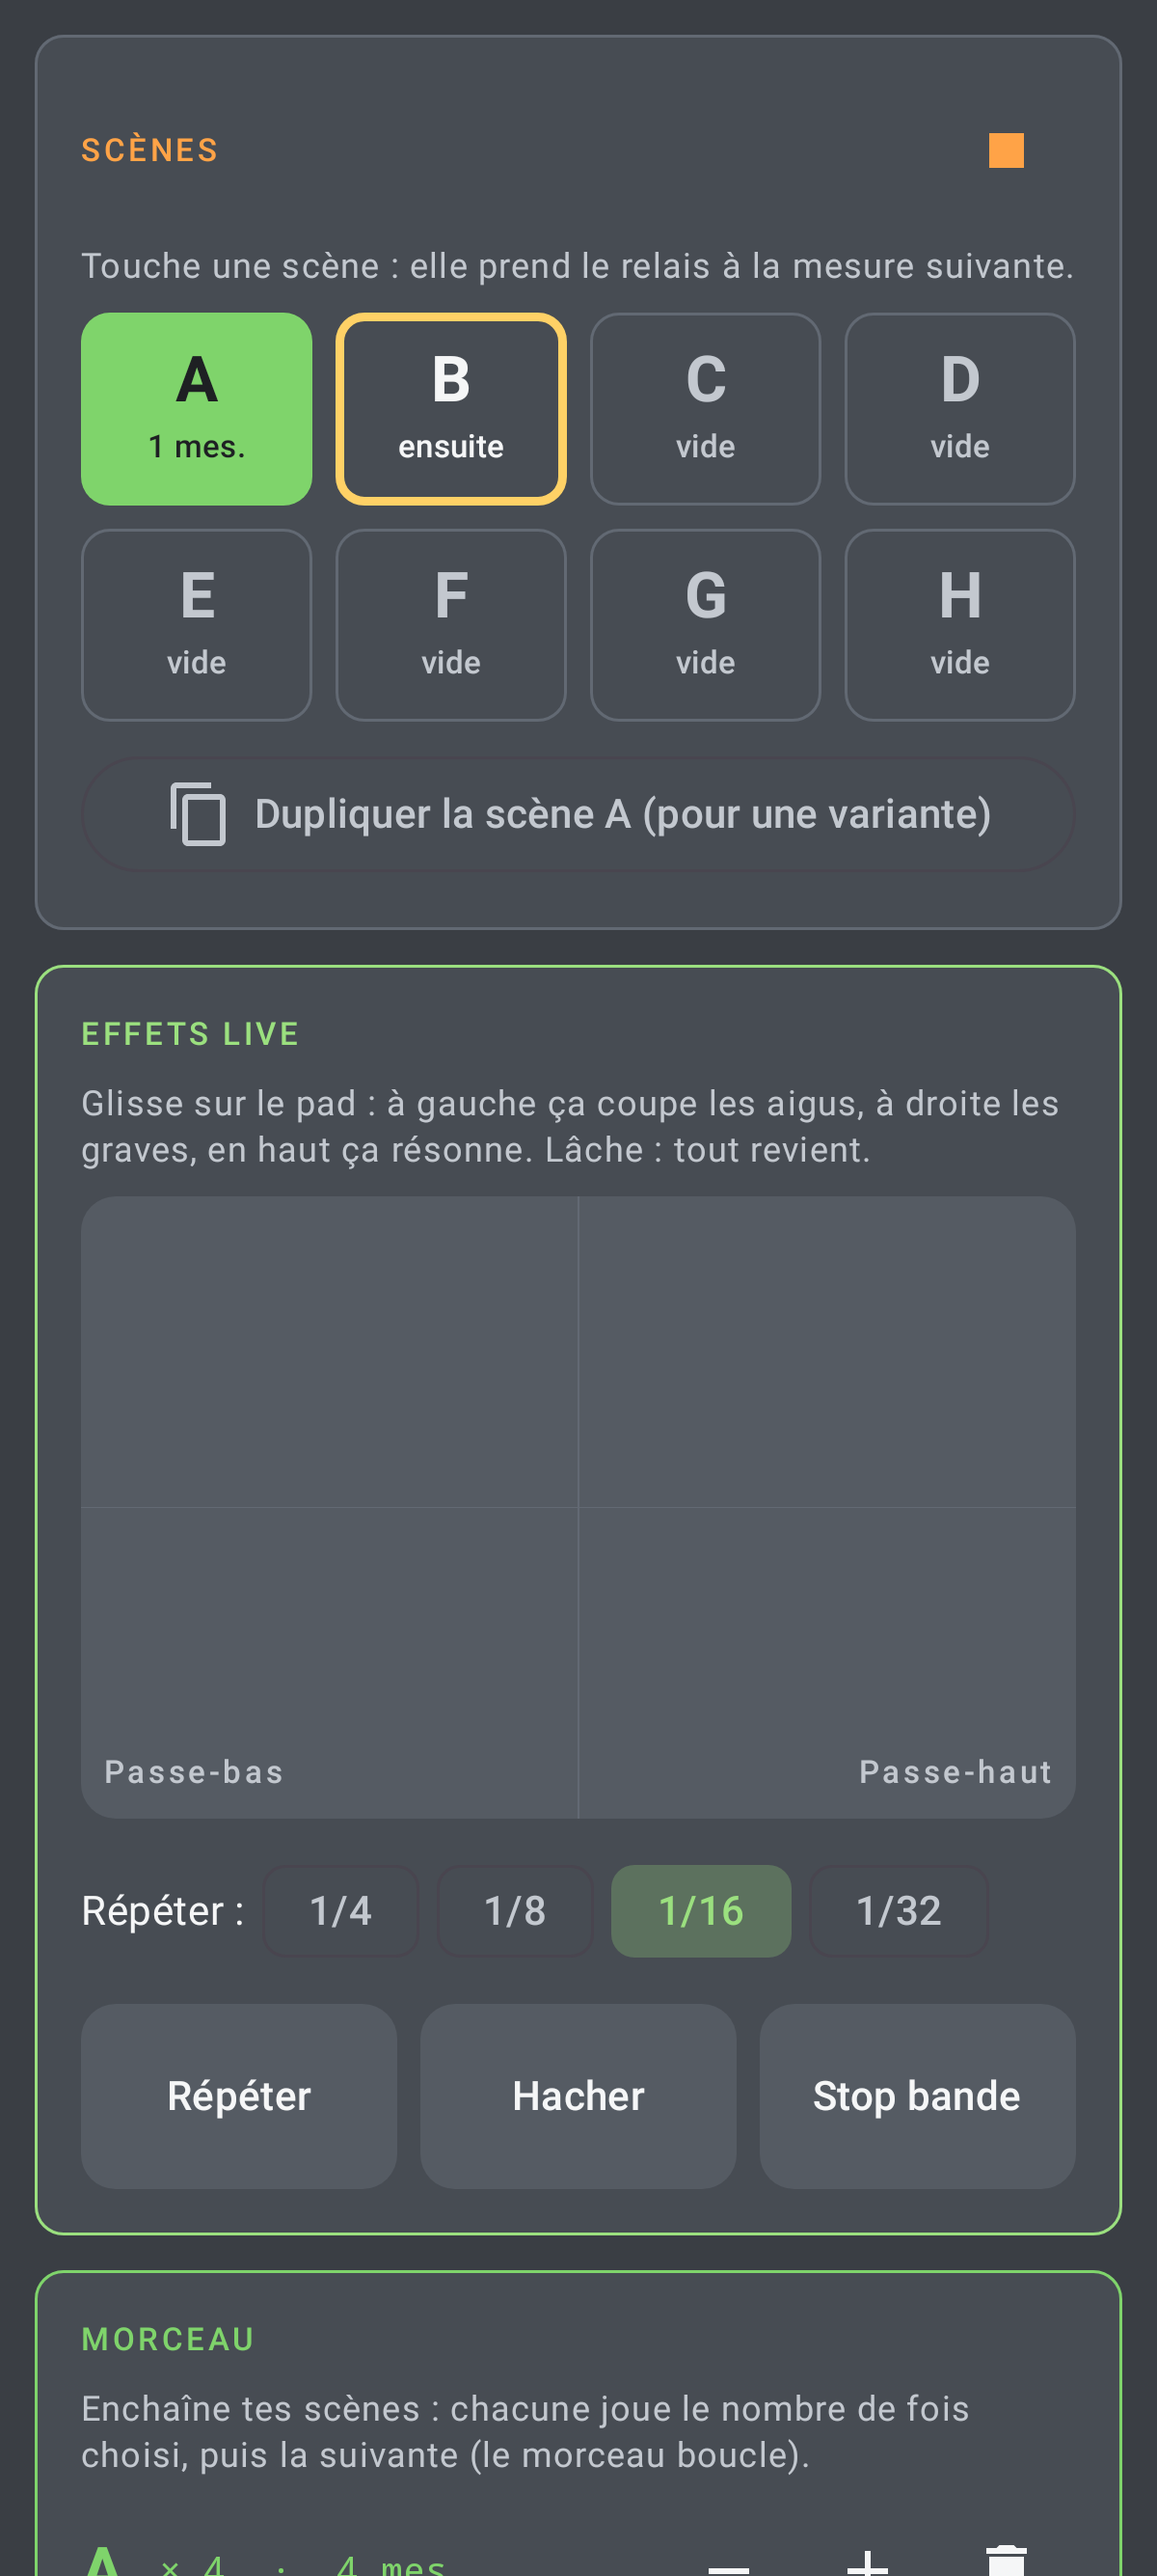
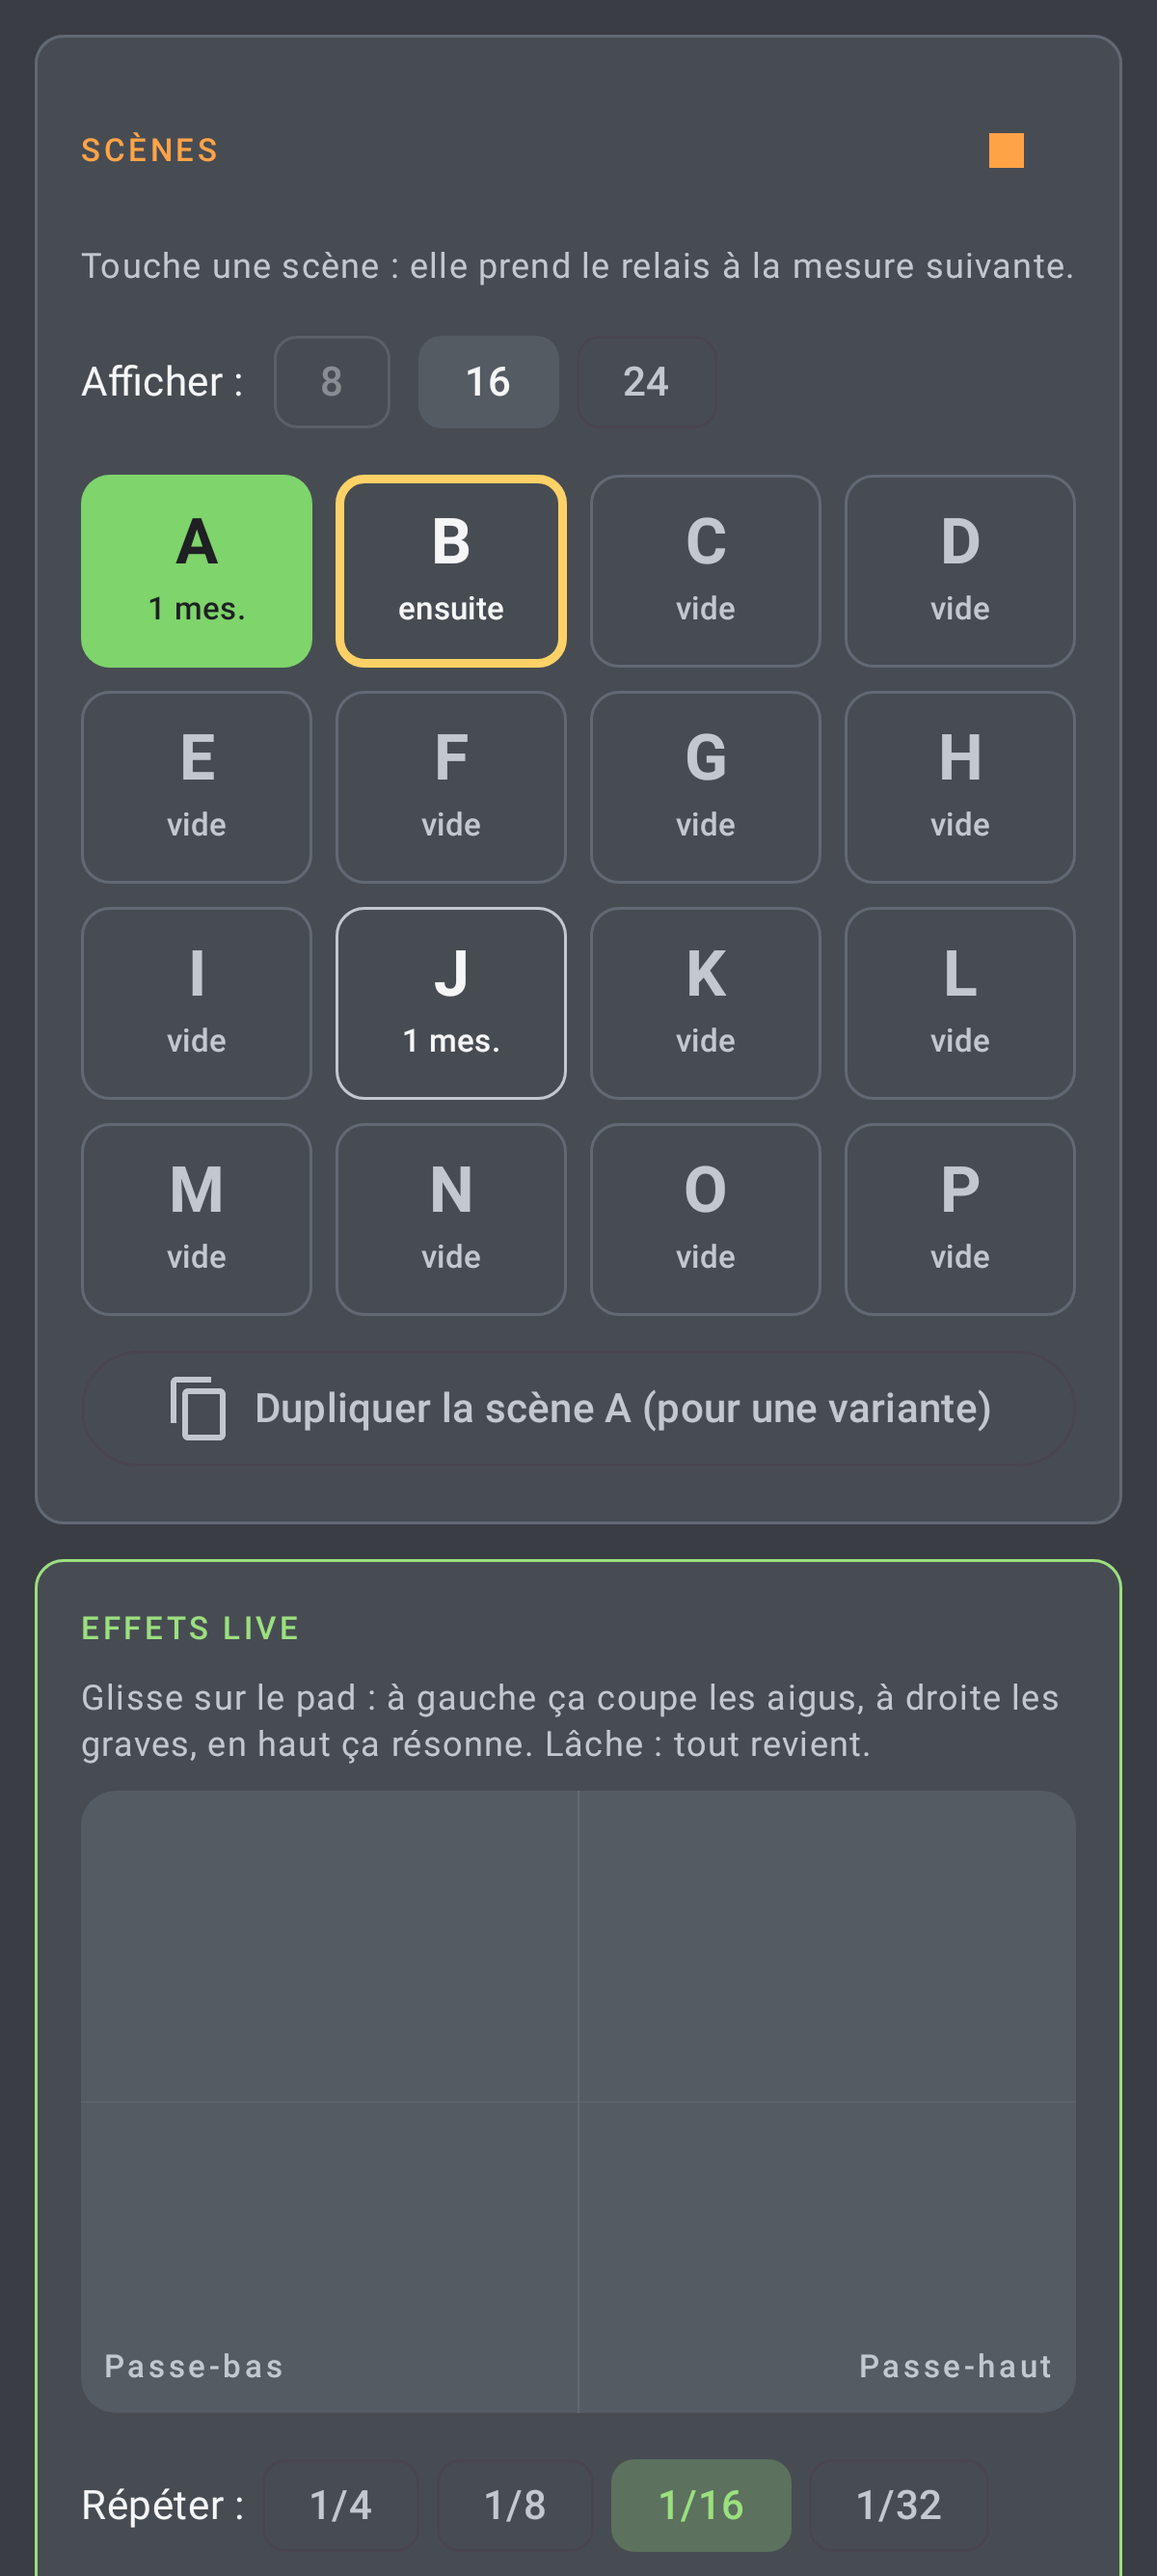
Scenes: up to 24 (A to X) with an 8/16/24 grid selector
Claude-Session: https://claude.ai/code/session_01NqonxZBBysqqWBbnsC2VTP

diff --git a/app/src/main/java/com/pocketstudio/app/session/SessionScreen.kt b/app/src/main/java/com/pocketstudio/app/session/SessionScreen.kt
@@ -21,6 +21,7 @@ import androidx.compose.material.icons.filled.PlayArrow
 import androidx.compose.material.icons.filled.Remove
 import androidx.compose.material.icons.filled.Stop
 import androidx.compose.material3.Button
+import androidx.compose.material3.FilterChip
 import androidx.compose.material3.ButtonDefaults
 import androidx.compose.material3.Icon
 import androidx.compose.material3.IconButton
@@ -28,6 +29,10 @@ import androidx.compose.material3.MaterialTheme
 import androidx.compose.material3.OutlinedButton
 import androidx.compose.material3.Text
 import androidx.compose.runtime.Composable
+import androidx.compose.runtime.getValue
+import androidx.compose.runtime.mutableIntStateOf
+import androidx.compose.runtime.saveable.rememberSaveable
+import androidx.compose.runtime.setValue
 import androidx.compose.ui.Alignment
 import androidx.compose.ui.Modifier
 import androidx.compose.ui.platform.testTag
@@ -42,7 +47,7 @@ import com.pocketstudio.ui.NeonCard
 import com.pocketstudio.ui.SectionLabel
 
 class SessionScreenUi(
-    /** Every scene slot A..H: null when it does not exist yet. */
+    /** Every scene slot A..X: null when it does not exist yet. */
     val scenes: List<Scene?>,
     val current: Int,
     val pending: Int?,
@@ -84,7 +89,23 @@ fun SessionScreen(ui: SessionScreenUi, actions: SessionActions) {
                 else "Une scène = la batterie, l'acide et le piano roll. Touche-en une pour l'afficher et la modifier.",
                 style = MaterialTheme.typography.bodySmall, color = Neon.TextSecondary,
             )
-            listOf(0, 4).forEach { start ->
+            // 8 slots by default; 16 or 24 on demand, and never fewer than the scenes in use.
+            val used = ui.scenes.indexOfLast { it != null } + 1
+            var chosen by rememberSaveable { mutableIntStateOf(Scene.GRID_SIZES.first()) }
+            val shown = Scene.GRID_SIZES.firstOrNull { it >= maxOf(chosen, used, ui.current + 1) } ?: Scene.MAX
+            Row(verticalAlignment = Alignment.CenterVertically, horizontalArrangement = Arrangement.spacedBy(6.dp)) {
+                Text("Afficher :", style = MaterialTheme.typography.bodyMedium)
+                Scene.GRID_SIZES.forEach { size ->
+                    FilterChip(
+                        selected = size == shown,
+                        onClick = { chosen = size },
+                        enabled = size >= used,
+                        label = { Text("$size") },
+                        modifier = Modifier.testTag("scene_grid_$size"),
+                    )
+                }
+            }
+            (0 until shown step 4).forEach { start ->
                 Row(Modifier.fillMaxWidth(), horizontalArrangement = Arrangement.spacedBy(8.dp)) {
                     for (i in start until start + 4) SceneButton(i, ui, actions, Modifier.weight(1f))
                 }

diff --git a/app/src/test/java/com/pocketstudio/app/ScreenshotTest.kt b/app/src/test/java/com/pocketstudio/app/ScreenshotTest.kt
@@ -373,7 +373,7 @@ class ScreenshotTest {
         val b = com.pocketstudio.model.Scene("B", drums.copy(steps = 32))
         com.pocketstudio.app.session.SessionScreen(
             com.pocketstudio.app.session.SessionScreenUi(
-                scenes = listOf(a, b, com.pocketstudio.model.Scene("C")) + List(5) { null },
+                scenes = listOf(a, b, com.pocketstudio.model.Scene("C")) + List(6) { null } + com.pocketstudio.model.Scene("J", drums) + List(14) { null },
                 current = 0, pending = 1,
                 song = listOf(com.pocketstudio.model.SongPart(0, 4), com.pocketstudio.model.SongPart(1, 2), com.pocketstudio.model.SongPart(0, 2)),
                 songIndex = 0, playing = true, tempoBpm = 124.0,

diff --git a/project-model/src/test/kotlin/com/pocketstudio/model/ProjectModelTest.kt b/project-model/src/test/kotlin/com/pocketstudio/model/ProjectModelTest.kt
@@ -528,5 +528,11 @@ class AcidPagesTest {
         val song = c.copy(song = listOf(SongPart(0, 0), SongPart(7, 2), SongPart(1, 99))).sanitized().song
         assertEquals(listOf(SongPart(0, 1), SongPart(1, SongPart.MAX_REPEATS)), song)
         assertEquals(c.sanitized(), ProjectJson.decode(ProjectJson.encode(c.sanitized())))
+        // Up to 24 scenes, A to X; beyond that a switch is ignored.
+        val x = c.switchScene(23)
+        assertEquals(24, x.scenes.size)
+        assertEquals("X", x.scenes[23].name)
+        assertEquals(x, x.switchScene(24))
+        assertEquals(x.sanitized(), ProjectJson.decode(ProjectJson.encode(x.sanitized())))
     }
 }

diff --git a/project-model/src/main/kotlin/com/pocketstudio/model/Scenes.kt b/project-model/src/main/kotlin/com/pocketstudio/model/Scenes.kt
@@ -23,8 +23,11 @@ data class Scene(
         acid.steps.take(acid.length).none { it.gate } && synthNotes.notes.isEmpty()
 
     companion object {
-        const val MAX = 8
-        val NAMES = listOf("A", "B", "C", "D", "E", "F", "G", "H")
+        const val MAX = 24
+        val NAMES = List(MAX) { ('A' + it).toString() }
+
+        /** How many scene slots the session grid can show. */
+        val GRID_SIZES = listOf(8, 16, 24)
     }
 }
 

diff --git a/docs/PROGRESS.md b/docs/PROGRESS.md
@@ -68,7 +68,11 @@
 
 - Phase 4 terminée et fusionnée (PR #13, 2026-10-20) : revue faite et corrigée (REVIEW.md).
 
+- Phase 5 (en cours, branche ccr-80af1a1b-mn0wec) :
+  - 5.1 Plaits comme 2e voix du Synthé (24 modèles, test Linux, zéro allocation) ; la FM 6 op. de Plaits tient lieu de FM 4 op. ;
+  - 24 scènes (A à X) au lieu de 8, grille « Afficher 8 · 16 · 24 » (demande de Benjamin).
+
 ## Prochaine étape exacte
-1. Phase 5.1 : moteurs de synthèse Plaits (Mutable Instruments, MIT) et FM 4 opérateurs, choisis dans Synthé › Source du son ; testés sur Linux, sans allocation. Nouvelle PR « Phase 5 : synthèse avancée et connectivité ».
-2. Attendre les retours de Benjamin (phase 4 : effets, scènes, morceau, effets live).
+1. Phase 5.2 : préréglages classés (basse, nappe, lead…), favoris, bouton « Au hasard » pour le Synthé, Plaits et l'acide.
+2. Puis 5.3 MIDI USB/BLE + horloge + Ableton Link ; 5.4 Basic Pitch (audio → notes) ; revue de fin de phase ; fusion.
 3. Reste noté : lever la limite de 60 s par son ; import de packs .zip ; étirement des stems si le tempo change.

diff --git a/docs/DECISIONS.md b/docs/DECISIONS.md
@@ -90,3 +90,4 @@
 | 2026-10-20 | Plaits (Mutable Instruments, MIT) comme 2e voix de la piste Synthé ; sa FM 6 op. façon DX7 tient lieu de « FM 4 opérateurs » de la feuille de route | Code éprouvé (module vendu des milliers de fois), 24 modèles, licence MIT | Écrire une FM 4 op. maison |
 | 2026-10-20 | Plaits rendu par blocs fixes de 12 échantillons : note au plus 0,25 ms en avance de son pas, retard interne constant de 1,25 ms ; voix limitées pour les modèles lourds (modal 2, particules 3, grosse caisse 3, accords 4) | Rythme interne de Plaits ; coût mesuré par modèle | Rendu échantillon par échantillon si un écart s'entend |
 | 2026-10-20 | Sous-ensemble de Plaits/stmlib copié dans le dépôt (1,4 Mo) plutôt qu'un sous-module | Le dépôt eurorack complet pèse 90 Mo | Sous-module en clonage partiel |
+| 2026-10-20 | 24 scènes (A à X) au lieu de 8, grille repliable 8/16/24 (jamais moins que les scènes utilisées) | Demande de Benjamin ; le moteur ne limite pas le nombre de scènes | Revenir à 8 : les projets à plus de 8 scènes seraient tronqués |
